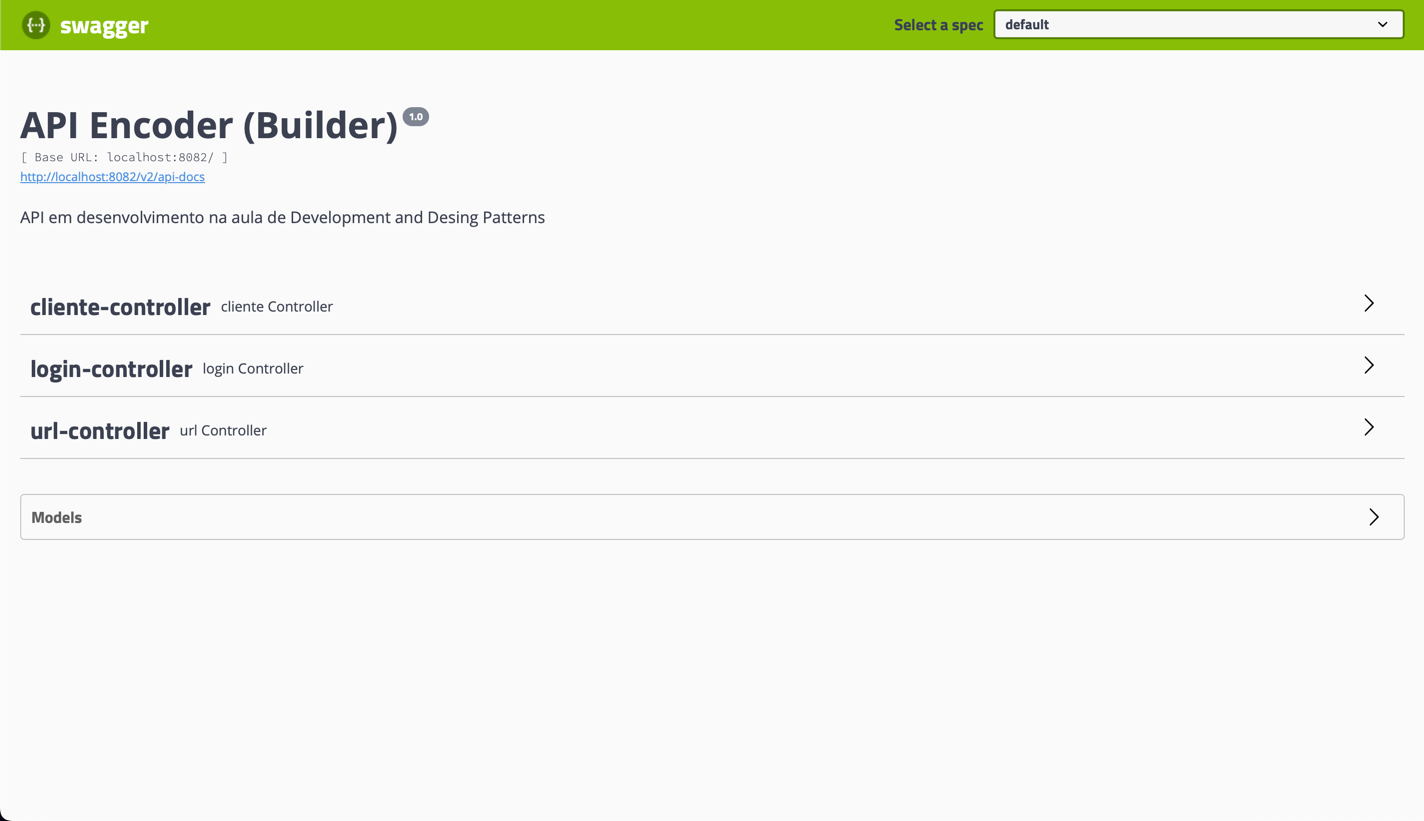
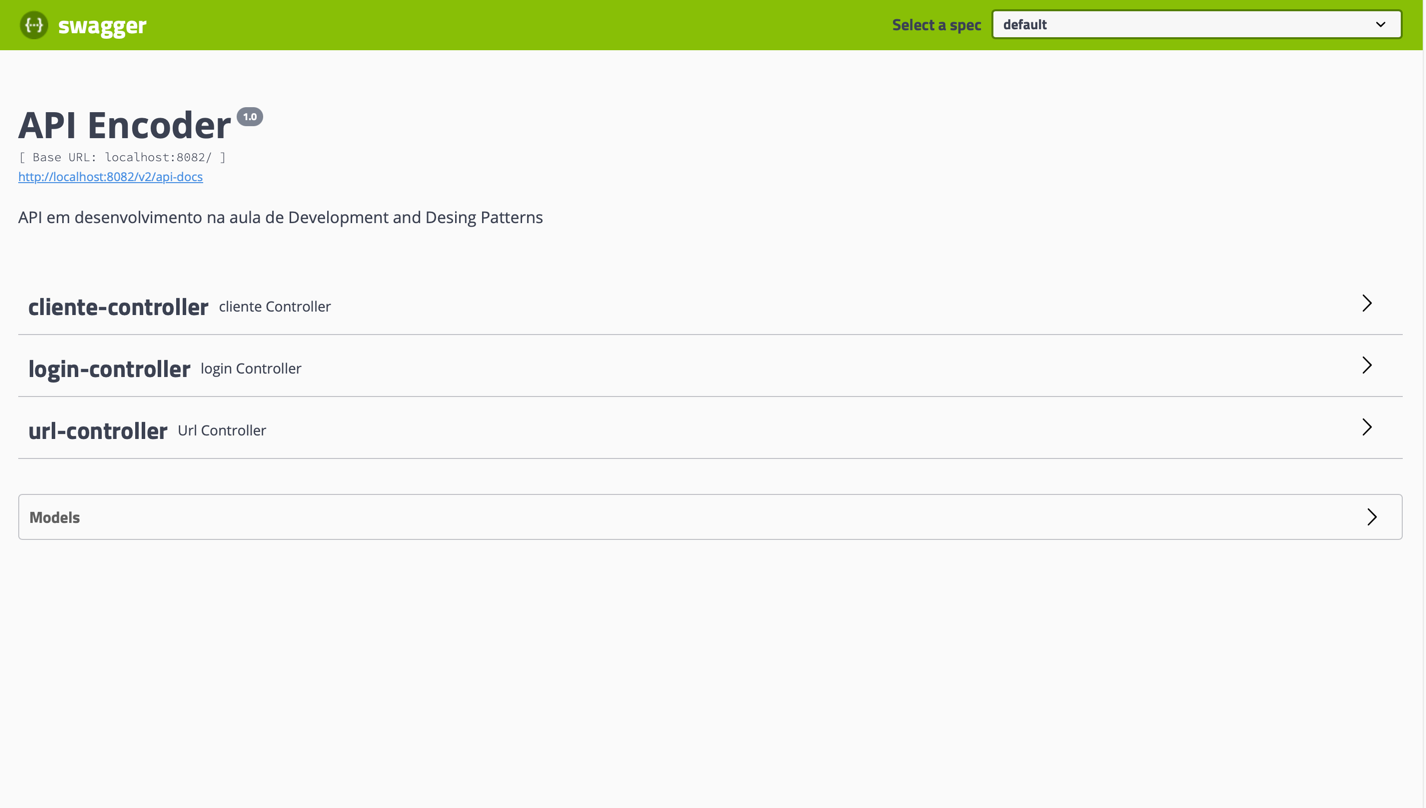
:books: update documentation and add comments about functions - 13:05

diff --git a/src/main/java/com/urlEncoder/builder/service/ClienteService.java b/src/main/java/com/urlEncoder/builder/service/ClienteService.java
@@ -21,23 +21,35 @@ public class ClienteService {
         this.repository = repository;
     }
 
+    private static ClienteService instance = null;
+    private Cliente cliente;
+
+    private ClienteService() {}
+
+    public static ClienteService getInstance() {
+        if (instance == null) {
+            instance = new ClienteService();
+        }
+        return instance;
+    }
+
+    public void setCliente(ReciveClienteDTO clienteRecive) {
+        cliente = new Cliente();
+        cliente.setNome(clienteRecive.getNome());
+        cliente.setSenha(clienteRecive.getSenha());
+        cliente.setEmail(clienteRecive.getEmail());
+        cliente.setDateRegister(dateSave());
+        cliente.setToken(generateToken(clienteRecive.getSenha()));
+    }
+
+    /// Método save cadastra no banco um Cliente, usando uma função disponibilizada pela ORM e usando o Pattern Singleton
     public String save(ReciveClienteDTO clienteRecive) {
-        ClienteBuilder clienteBuilder = new ClienteBuilder()
-                .setNome(clienteRecive.getNome())
-                .setSenha(clienteRecive.getSenha())
-                .setEmail(clienteRecive.getEmail())
-                .setDateRegister(dateSave())
-                .setToken(generateToken(clienteRecive.getSenha()));
-        Cliente cliente = new Cliente();
-        cliente.setDateRegister(clienteBuilder.build().getDateRegister());
-        cliente.setEmail(clienteBuilder.build().getEmail());
-        cliente.setNome(clienteBuilder.build().getNome());
-        cliente.setToken(clienteBuilder.build().getToken());
-        cliente.setSenha(clienteBuilder.build().getSenha());
+        setCliente(clienteRecive);
         Cliente result = repository.save(cliente);
         return result.getToken();
     }
 
+    /// Método findAll recupera o uma lista Clientes cadastradas, buscando com a função disponibilizada pela ORM
     public List<Cliente> findAll() {
         return repository.findAll();
     }
@@ -47,10 +59,12 @@ public class ClienteService {
         return dataNascimento.toString();
     }
 
+    /// Método findById recupera um Cliente cadastrado, buscando com a função disponibilizada pela ORM
     public Optional<Cliente> findById(UUID id) {
         return repository.findById(id);
     }
 
+    /// Método alterCliente altera o cliente informado, com as novas informações usando o patter Builder
     public Cliente alterCliente(Cliente cliente) {
         repository.deleteById(cliente.getId());
         ClienteBuilder clienteBuilder = new ClienteBuilder()
@@ -58,7 +72,7 @@ public class ClienteService {
                 .setSenha(cliente.getSenha())
                 .setEmail(cliente.getEmail())
                 .setDateRegister(dateSave())
-                .setToken(generateToken(cliente.getSenha()));
+                .setToken(generateToken(cliente.getSenha())).build();
         Cliente newCliente = new Cliente();
         newCliente.setDateRegister(clienteBuilder.build().getDateRegister());
         newCliente.setEmail(clienteBuilder.build().getEmail());
@@ -68,6 +82,7 @@ public class ClienteService {
         return repository.save(newCliente);
     }
 
+    /// Método findByToken realiza uma busca e retorna o cliente atravez do token informado usando o patter Builder
     public Optional<ClienteBuilder> findByToken(String token) {
         List<Cliente> list = repository.findAll();
         ClienteBuilder user = new ClienteBuilder().build();
@@ -81,9 +96,10 @@ public class ClienteService {
                 user.setSenha(element.getSenha());
             }
         });
-        return Optional.of(user);
+        return Optional.of(user.build());
     }
 
+    /// Método findRegister realiza uma busca e retorna o cliente atravez do email informado usando o patter Builder
     public Optional<ClienteBuilder> findRegister(String email) {
         List<Cliente> list = repository.findAll();
         ClienteBuilder user = new ClienteBuilder().build();
@@ -97,17 +113,19 @@ public class ClienteService {
                 user.setSenha(element.getSenha());
             }
         });
-        return Optional.of(user);
+        return Optional.of(user.build());
     }
-
+    /// Método delete apaga um Cliente, utilizando com a função disponibilizada pela ORM
     public void delete(Cliente cliente) {
         repository.delete(cliente);
     }
 
+    /// Método deletebyid apaga uma Cliente pelo ID, utilizando com a função disponibilizada pela ORM
     public void deletebyid(UUID id) {
         repository.deleteById(id);
     }
 
+    /// Método generateToken retorna uma String com o Token JWT utilizando "Jwts" usando o patter Builder
     public String generateToken(String password) {
         String secret = "JsonWebToken";
         Map<String, Object> claims = new HashMap<>();
@@ -118,4 +136,4 @@ public class ClienteService {
                 .setExpiration(new Date(System.currentTimeMillis() + 100000 * 1000))
                 .signWith(SignatureAlgorithm.HS512, secret).compact();
     }
-    }
+}

diff --git a/src/main/java/com/urlEncoder/builder/service/UrlService.java b/src/main/java/com/urlEncoder/builder/service/UrlService.java
@@ -21,9 +21,12 @@ public class UrlService {
     @Autowired
     private ClienteService clienteService;
 
+    /// Método findAll recupera o uma lista URL cadastradas, buscando com a função disponibilizada pela ORM
     public List<Url> findAll() {
         return repositoryUrl.findAll();
     }
+
+    /// Método findByToken recupera o uma lista URL cadastradas por um usuário, buscando com a função disponibilizada pela ORM
     public List<Url> findByToken(String token) {
         List<Url> list = repositoryUrl.findAll();
         List<Url> urlList = new ArrayList<Url>();
@@ -34,17 +37,19 @@ public class UrlService {
         });
         return urlList;
     }
+    /// Método Save salva a url Usando o Patter Builder
     public Url save(String url, ClienteBuilder user){
-       UrlBuilder urlBuilder = new UrlBuilder()
+        Url urlBuilder = new UrlBuilder()
                 .withUrl(url)
                 .withUserId(user.getId())
                 .withHash(generateHash(url))
                 .withDateSave(LocalDate.now())
-                .withDateExpired(LocalDate.now().plusDays(1));
+                .withDateExpired(LocalDate.now().plusDays(1)).build();
         Url urlSaved = urlBuilder.build();
         return repositoryUrl.save(urlSaved);
     }
 
+    /// Método findById busca e recupera por ID uma URL cadastrada, buscando com a função disponibilizada pela ORM
     public Optional<Url> findById(UUID id) {
         return repositoryUrl.findById(id);
     }
@@ -52,29 +57,24 @@ public class UrlService {
         return repositoryUrl.findByhash(url);
     }
 
-//    private String generateHash(String url) {
-//        LocalDateTime time = LocalDateTime.now();
-//        String encodedUrl = Hashing.murmur3_32()
-//                .hashString(url.concat(time.toString()), StandardCharsets.UTF_8)
-//                .toString().substring(0, 6);
-//        return encodedUrl;
-//    }
+    /// Método generateHash gera uma HASH de 6 caracteres utilizando uma classe generica que constroi a função usando o patter Builder
     public String generateHash(String url) {
         LocalDateTime time = LocalDateTime.now();
 
         Patter<String> encodedUrlPatter = Patter.<String>builder()
                 .fromFunction(() -> Hashing.murmur3_32()
                         .hashString(url.concat(time.toString()), StandardCharsets.UTF_8)
-                        .toString().substring(0, 6))
-                .build();
+                        .toString().substring(0, 6)).build();
 
         return encodedUrlPatter.get();
     }
+
+    /// Método getHashUrl recupera o objeto URL que contai a HASH, buscando com a função disponibilizada pela ORM
     public Url getHashUrl(String hash) {
-        Url urlToRet = repositoryUrl.findByhash(hash);
-        return urlToRet;
+        return repositoryUrl.findByhash(hash);
     }
 
+    /// Método getUrl retorna uma Lista de URL utilizando uma classe generica que constroi a função usando o patter Builder
     public List<Url> getUrl(String url) {
         Patter<List<Url>> urlListPatter = Patter.<List<Url>>builder()
                 .fromFunction(() -> {
@@ -85,24 +85,17 @@ public class UrlService {
                         }
                     });
                     return urlList;
-                })
-                .build();
+                }).build();
 
         return urlListPatter.get();
     }
-//    public List<Url> getUrl(String url) {
-//        List<Url> urlList = new ArrayList<>();
-//        repositoryUrl.findAll().forEach(urlObj -> {
-//            if (urlObj.getUrl().equals(url)) {
-//                urlList.add(urlObj);
-//            }
-//        });
-//        return urlList;
-//    }
 
+    /// Método delete apaga uma URL, utilizando com a função disponibilizada pela ORM
     public void delete(Url url){
         repositoryUrl.delete(url);
     }
+
+    /// Método deletebyid apaga uma URL pelo ID, utilizando com a função disponibilizada pela ORM
     public void deletebyid(UUID id){
         repositoryUrl.deleteById(id);
     }

diff --git a/src/main/java/com/urlEncoder/builder/config/swaggerConfig.java b/src/main/java/com/urlEncoder/builder/config/swaggerConfig.java
@@ -12,7 +12,7 @@ import springfox.documentation.swagger2.annotations.EnableSwagger2;
 @Configuration
 @EnableSwagger2
 public class swaggerConfig {
-
+    /// Configurações do Swagger são feitas usando o Pattern Builder
     @Bean
     public Docket api() {
         return new Docket(DocumentationType.SWAGGER_2).useDefaultResponseMessages(false).apiInfo(apiInfo())
@@ -23,8 +23,9 @@ public class swaggerConfig {
                 .build();
     }
 
+    /// Definição das informações visuais da Documentação
     private ApiInfo apiInfo() {
-        return new ApiInfoBuilder().title("API Encoder (Builder)")
+        return new ApiInfoBuilder().title("API Encoder")
                 .description("API em desenvolvimento na aula de Development and Desing Patterns")
                 .version("1.0")
                 .build();

diff --git a/src/main/java/com/urlEncoder/builder/service/loginServices.java b/src/main/java/com/urlEncoder/builder/service/loginServices.java
@@ -16,6 +16,7 @@ public class loginServices {
     @Autowired
     private ClienteRepository repository;
 
+    /// Método login verifica e retorna o Objeto Cliente baseado no resultado das suas credenciais usando o Patter Builder
     public Optional<ClienteBuilder> login(login info) {
         List<Cliente> list = repository.findAll();
         ClienteBuilder clienteBuilder = new ClienteBuilder();

diff --git a/src/main/java/com/urlEncoder/builder/domain/Patter.java b/src/main/java/com/urlEncoder/builder/domain/Patter.java
@@ -29,7 +29,7 @@ public class Patter<T> {
 
         public Patter<T> build() {
             if (supplier == null) {
-                throw new IllegalStateException("Function must be defined");
+                throw new IllegalStateException("A função deve ser definida");
             }
             return new Patter<>(supplier);
         }

diff --git a/src/main/java/com/urlEncoder/builder/domain/Url.java b/src/main/java/com/urlEncoder/builder/domain/Url.java
@@ -91,6 +91,9 @@ public class Url implements Serializable {
 
     public Url() {
     }
+    public Url build() {
+        return this;
+    }
 
 
 }

diff --git a/README.md b/README.md
@@ -1,4 +1,4 @@
-# API Encoder (Builder)
+# API Encoder
 <div align="center">
 
 
@@ -22,6 +22,30 @@
   <a href="#licenca">Exclusão de HASH</a> 
 </div>
 
+## Patterns
+
+<div align="center">
+  • <a href="#Descrição do Projeto">Builder</a> •
+  <a href="#tecnicas-e-tecnologias-utilizadas">Singleton</a> 
+</div>
+
+## Builder
+O padrão Builder (Builder Pattern) é um padrão de projeto de software criacional (creational design pattern) que tem como objetivo separar a construção de um objeto complexo da sua representação, permitindo que o mesmo processo de construção possa criar diferentes representações.
+
+Em outras palavras, o padrão Builder oferece uma maneira de construir objetos complexos passo a passo, permitindo que diferentes tipos de objetos possam ser criados usando o mesmo processo de construção. Isso torna o código mais flexível e modular, facilitando a manutenção e evolução do software.
+
+O padrão Builder é particularmente útil quando você precisa criar objetos complexos que exigem muitos parâmetros ou quando você deseja criar diferentes variações de um mesmo objeto, mantendo o mesmo processo de construção.
+
+## Singleton
+Singleton é um padrão de projeto de software criacional que garante que uma classe tenha apenas uma instância e fornece um ponto de acesso global para essa instância.
+
+Em outras palavras, o padrão Singleton garante que uma classe possa ter apenas uma instância durante a execução do programa e fornece um meio para acessar essa instância globalmente em toda a aplicação. Isso é útil quando uma única instância de uma classe é necessária para coordenar ações em todo o sistema.
+
+O padrão Singleton é amplamente utilizado em situações em que apenas uma instância de uma classe é necessária, como em objetos de conexão com banco de dados, objetos de log e gerenciadores de recursos.
+
+Ao usar o padrão Singleton, é possível controlar o acesso à instância única e garantir que ela seja inicializada apenas uma vez, além de garantir que a instância seja facilmente acessível em toda a aplicação.
+
+O padrão Singleton pode ser implementado de várias maneiras, como usando um construtor privado, uma variável estática privada e um método público estático para acessar a instância.
 ## Descrição do Projeto
 
 <p align="justify">Aplicação Java com SPRING BOOT, desenvolvida na aula de Development and Design Patters da 4a etapa do curso de Sistemas de informação da Univem.</p>
